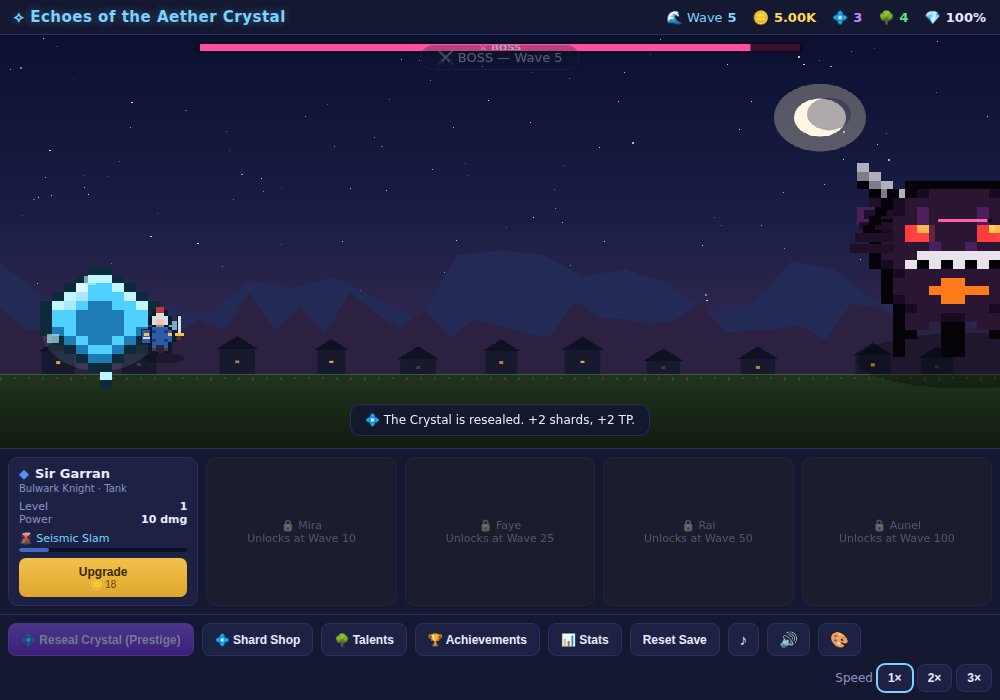
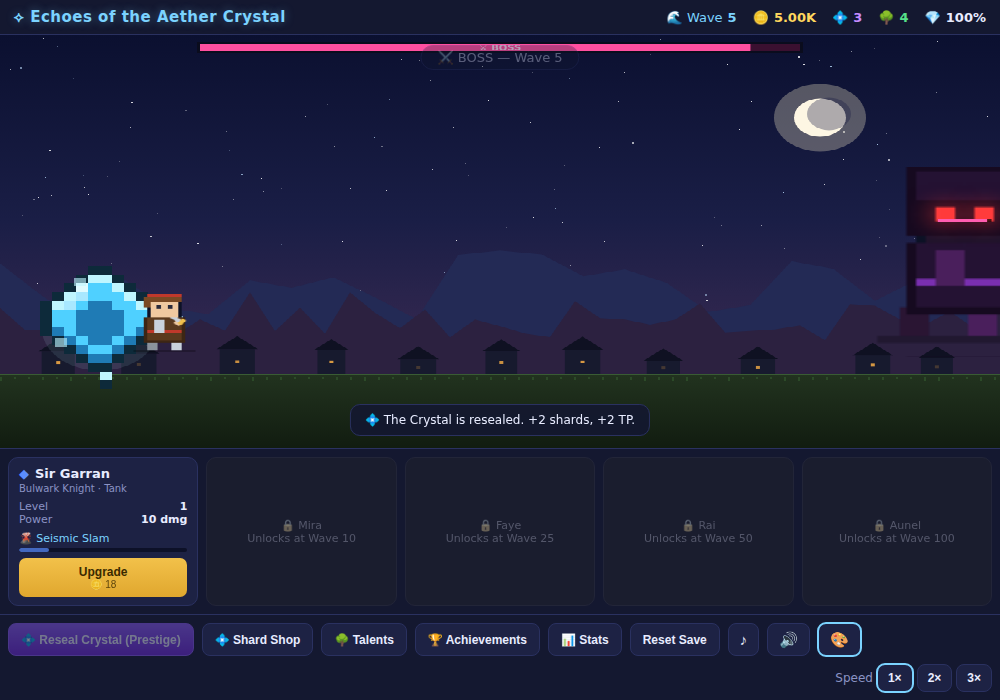
Bundle generated animated sprite sheets and enable them by default
Since the reference art can't be ingested as files, generate themed animated
sprite sheets (idle/walk/attack/cast × 6 frames) for all six characters via
generate-sheets.mjs and ship them in assets/: warrior→Garran, wizard→Mira,
archer→Faye, sorcerer→Rai, healer→Aunel, shadow→Boss.

Sheets are now on by default (sheets.js SHEET_CONFIG updated to the uniform
4×6 grid; ?sheets=0 or the 🎨 button forces canvas art). Heroes animate their
attack/cast pose and the boss plays walk/attack. Missing/broken sheets still
fall back to the built-in canvas art. verify7 updated for the new default and
confirms sheets load and render; full suite passes with no console errors.

To use real art, drop PNGs with the same filenames into assets/.

Claude-Session: https://claude.ai/code/session_0137Kmgx8usseqRPpPc7daxH

diff --git a/sheets.js b/sheets.js
@@ -20,40 +20,29 @@
 'use strict';
 window.Sheets = (function () {
   // character id -> sheet file + grid + per-animation {row, frames, fps}
+  // The bundled sheets are a uniform 4 rows (idle/walk/attack/cast) x 6 frames.
+  const A = { idle:{row:0,frames:6,fps:6}, walk:{row:1,frames:6,fps:9},
+              attack:{row:2,frames:6,fps:13}, cast:{row:3,frames:6,fps:12} };
   const SHEET_CONFIG = {
-    // Warrior (red headband swordsman)  →  Sir Garran (Knight)
-    garran: { file:'warrior.png',  rows:5, cols:7, fit:1.15,
-      anim:{ idle:{row:0,frames:5,fps:6}, walk:{row:1,frames:5,fps:8},
-             attack:{row:2,frames:7,fps:12}, cast:{row:3,frames:7,fps:12} } },
-    // Purple Wizard (staff, fire/ice cast)  →  Mira (Mage)
-    mira:   { file:'wizard.png',   rows:4, cols:10, fit:1.1,
-      anim:{ idle:{row:0,frames:5,fps:6}, walk:{row:1,frames:8,fps:8},
-             attack:{row:2,frames:10,fps:12}, cast:{row:3,frames:9,fps:12} } },
-    // Green hooded Archer  →  Faye (Archer)
-    faye:   { file:'archer.png',   rows:5, cols:7, fit:1.05,
-      anim:{ idle:{row:0,frames:5,fps:6}, walk:{row:1,frames:6,fps:8},
-             attack:{row:2,frames:7,fps:14}, cast:{row:3,frames:7,fps:12} } },
-    // Elemental Sorcerer (orange hood, elemental orbs)  →  Rai (Storm Ronin)
-    rai:    { file:'sorcerer.png',  rows:4, cols:10, fit:1.1,
-      anim:{ idle:{row:0,frames:6,fps:6}, walk:{row:1,frames:7,fps:8},
-             attack:{row:2,frames:8,fps:12}, cast:{row:3,frames:10,fps:12} } },
-    // (Aunel has no provided sheet → keeps canvas art via fallback)
-
-    // Dark shadow mage (red eyes, purple energy)  →  Boss
-    boss:   { file:'shadow.png',   rows:5, cols:7, fit:1.0,
-      anim:{ idle:{row:0,frames:5,fps:5}, walk:{row:1,frames:7,fps:7},
-             attack:{row:2,frames:7,fps:10}, cast:{row:3,frames:8,fps:10} } },
+    garran: { file:'warrior.png',  rows:4, cols:6, fit:1.15, anim:A },  // Knight
+    mira:   { file:'wizard.png',   rows:4, cols:6, fit:1.10, anim:A },  // Mage
+    faye:   { file:'archer.png',   rows:4, cols:6, fit:1.05, anim:A },  // Archer
+    rai:    { file:'sorcerer.png', rows:4, cols:6, fit:1.10, anim:A },  // Storm Ronin
+    aunel:  { file:'healer.png',   rows:4, cols:6, fit:1.10, anim:A },  // Healer
+    boss:   { file:'shadow.png',   rows:4, cols:6, fit:1.35, anim:A },  // Boss
   };
 
   const imgs = {};   // id -> { img, ok, failed }
   let enabled = false;
 
   function detectEnabled(){
+    // On by default now that sprite sheets ship in assets/; explicit off wins.
     try {
+      if (typeof location !== 'undefined' && /[?&]sheets=0/.test(location.search)) return false;
       if (typeof location !== 'undefined' && /[?&]sheets=1/.test(location.search)) return true;
-      if (typeof localStorage !== 'undefined' && localStorage.getItem('use_sheets') === '1') return true;
+      if (typeof localStorage !== 'undefined' && localStorage.getItem('use_sheets') === '0') return false;
     } catch (e) {}
-    return false;
+    return true;
   }
   enabled = detectEnabled();
 

diff --git a/README.md b/README.md
@@ -110,10 +110,9 @@ Crystal (endless mode continues).
 
 ## HD sprite sheets (optional)
 
-The game can render **real animated sprite-sheet art** (idle / walk / attack /
-cast frames) instead of the built-in canvas pixel-art. Drop PNG sheets into
-[`assets/`](assets/README.md) with these names and click the **🎨** button (or
-open with `?sheets=1`):
+Characters use **animated sprite-sheet art** (idle / walk / attack / cast
+frames). Sheets ship in [`assets/`](assets/README.md) and are **on by default**;
+toggle with the **🎨** button (or `?sheets=0` to force the built-in canvas art).
 
 | File | Character |
 |------|-----------|
@@ -121,11 +120,14 @@ open with `?sheets=1`):
 | `wizard.png` | Mira (Mage) |
 | `archer.png` | Faye (Archer) |
 | `sorcerer.png` | Rai (Storm Ronin) |
+| `healer.png` | Aunel (Healer) |
 | `shadow.png` | Boss |
 
-Sheets are off by default and any missing/broken sheet falls back to the
-built-in art automatically, so the game always runs. Grid/frame counts are
-configured in `sheets.js → SHEET_CONFIG` if your export needs adjusting.
+The bundled sheets are **generated** (see `generate-sheets.mjs`) themed to match
+each class. To use your own art, replace the PNG with the same filename — grid
+is a uniform 4 rows (idle/walk/attack/cast) × 6 frames; adjust `sheets.js →
+SHEET_CONFIG` if your layout differs. Any missing/broken sheet falls back to the
+built-in canvas art automatically, so the game always runs.
 
 ## Files
 

diff --git a/assets/README.md b/assets/README.md
@@ -1,7 +1,9 @@
 # Sprite sheet assets
 
-Drop your PNG sprite sheets here to replace the built-in canvas pixel-art with
-real animated frames. Expected filenames (mapped in `../sheets.js`):
+This folder ships with **generated** animated sprite sheets (made by
+`../generate-sheets.mjs`, themed to match each class). They are used by default.
+To use your own art, replace a PNG with the same filename. Expected filenames
+(mapped in `../sheets.js`):
 
 | File | Character in game | Source sheet |
 |------|-------------------|--------------|
@@ -13,14 +15,13 @@ real animated frames. Expected filenames (mapped in `../sheets.js`):
 
 *(Aunel the Healer has no sheet yet and keeps the built-in art.)*
 
-## How to turn it on
+## Turning it off / on
 
-Sheets are **off by default** so the game runs clean with no art. After adding
-the PNGs, enable them by any of:
+Sheets are **on by default**. To force the built-in canvas art instead:
 
-- click the **🎨** button in the controls bar, **or**
-- open the game with `?sheets=1` in the URL, **or**
-- run `localStorage.setItem('use_sheets','1')` in the console, then reload.
+- click the **🎨** button in the controls bar to toggle, **or**
+- open the game with `?sheets=0` in the URL, **or**
+- run `localStorage.setItem('use_sheets','0')` in the console, then reload.
 
 Missing or broken sheets fall back to the built-in canvas sprites automatically.
 
